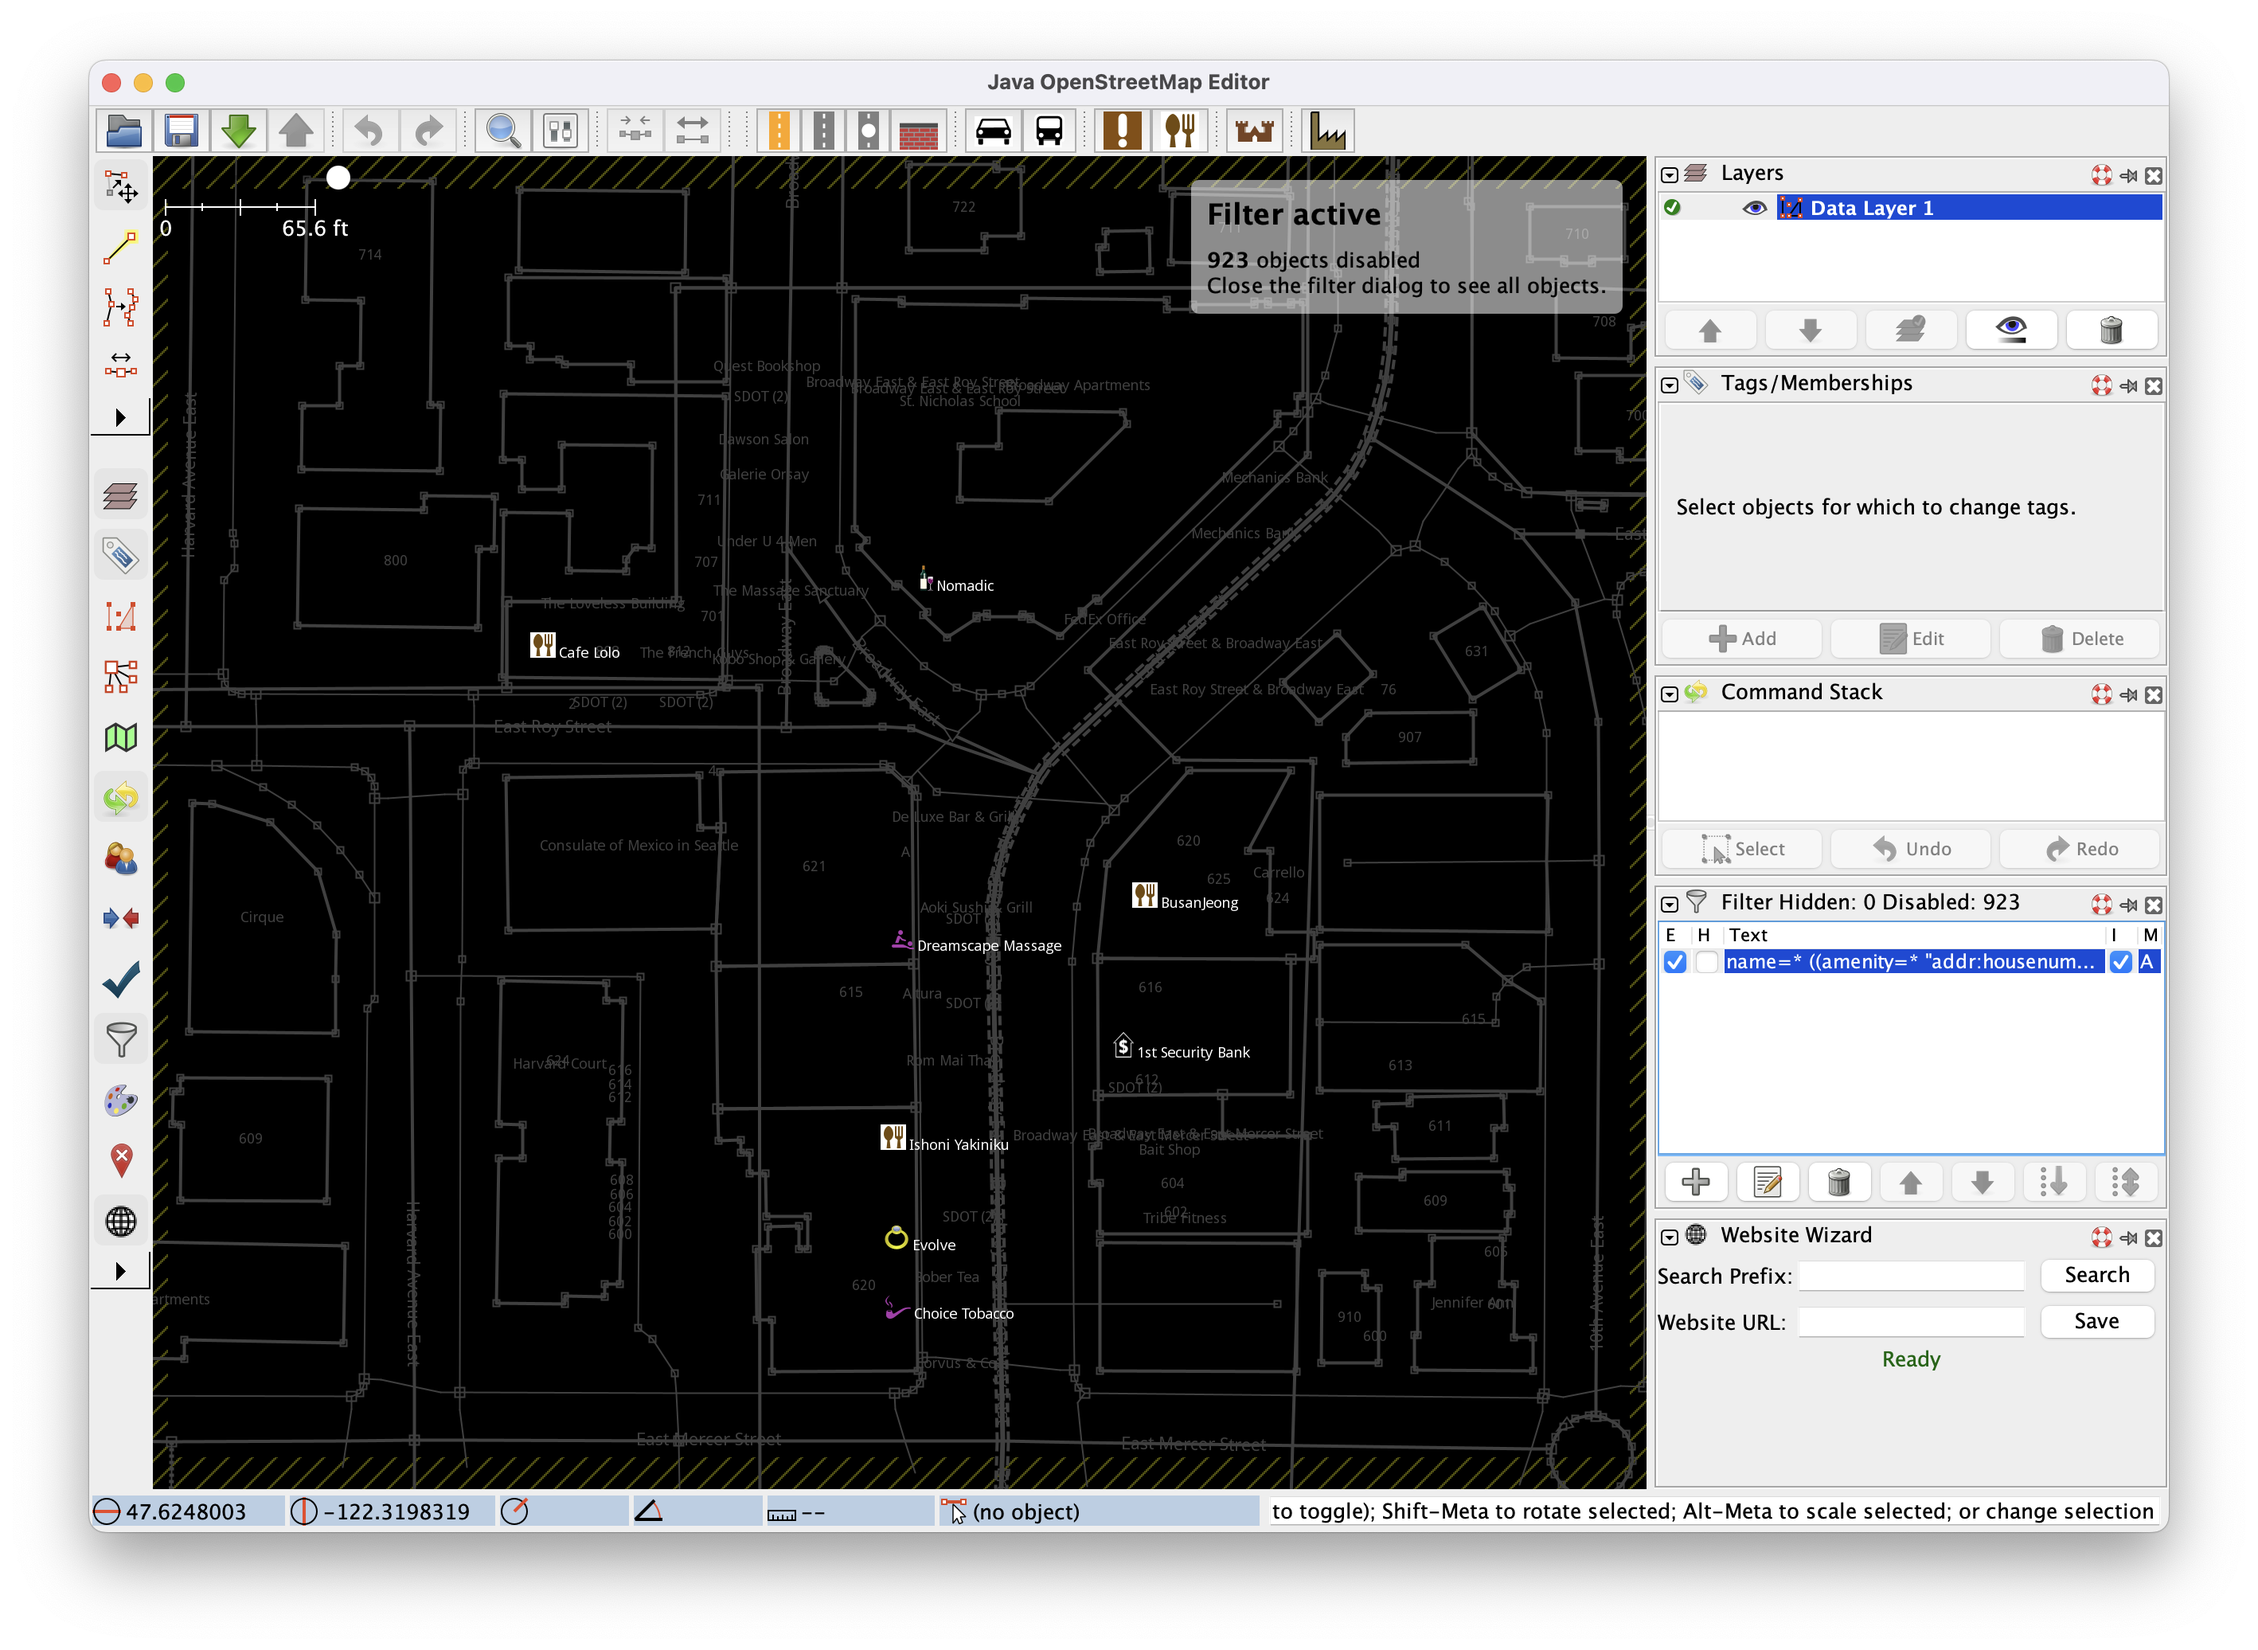
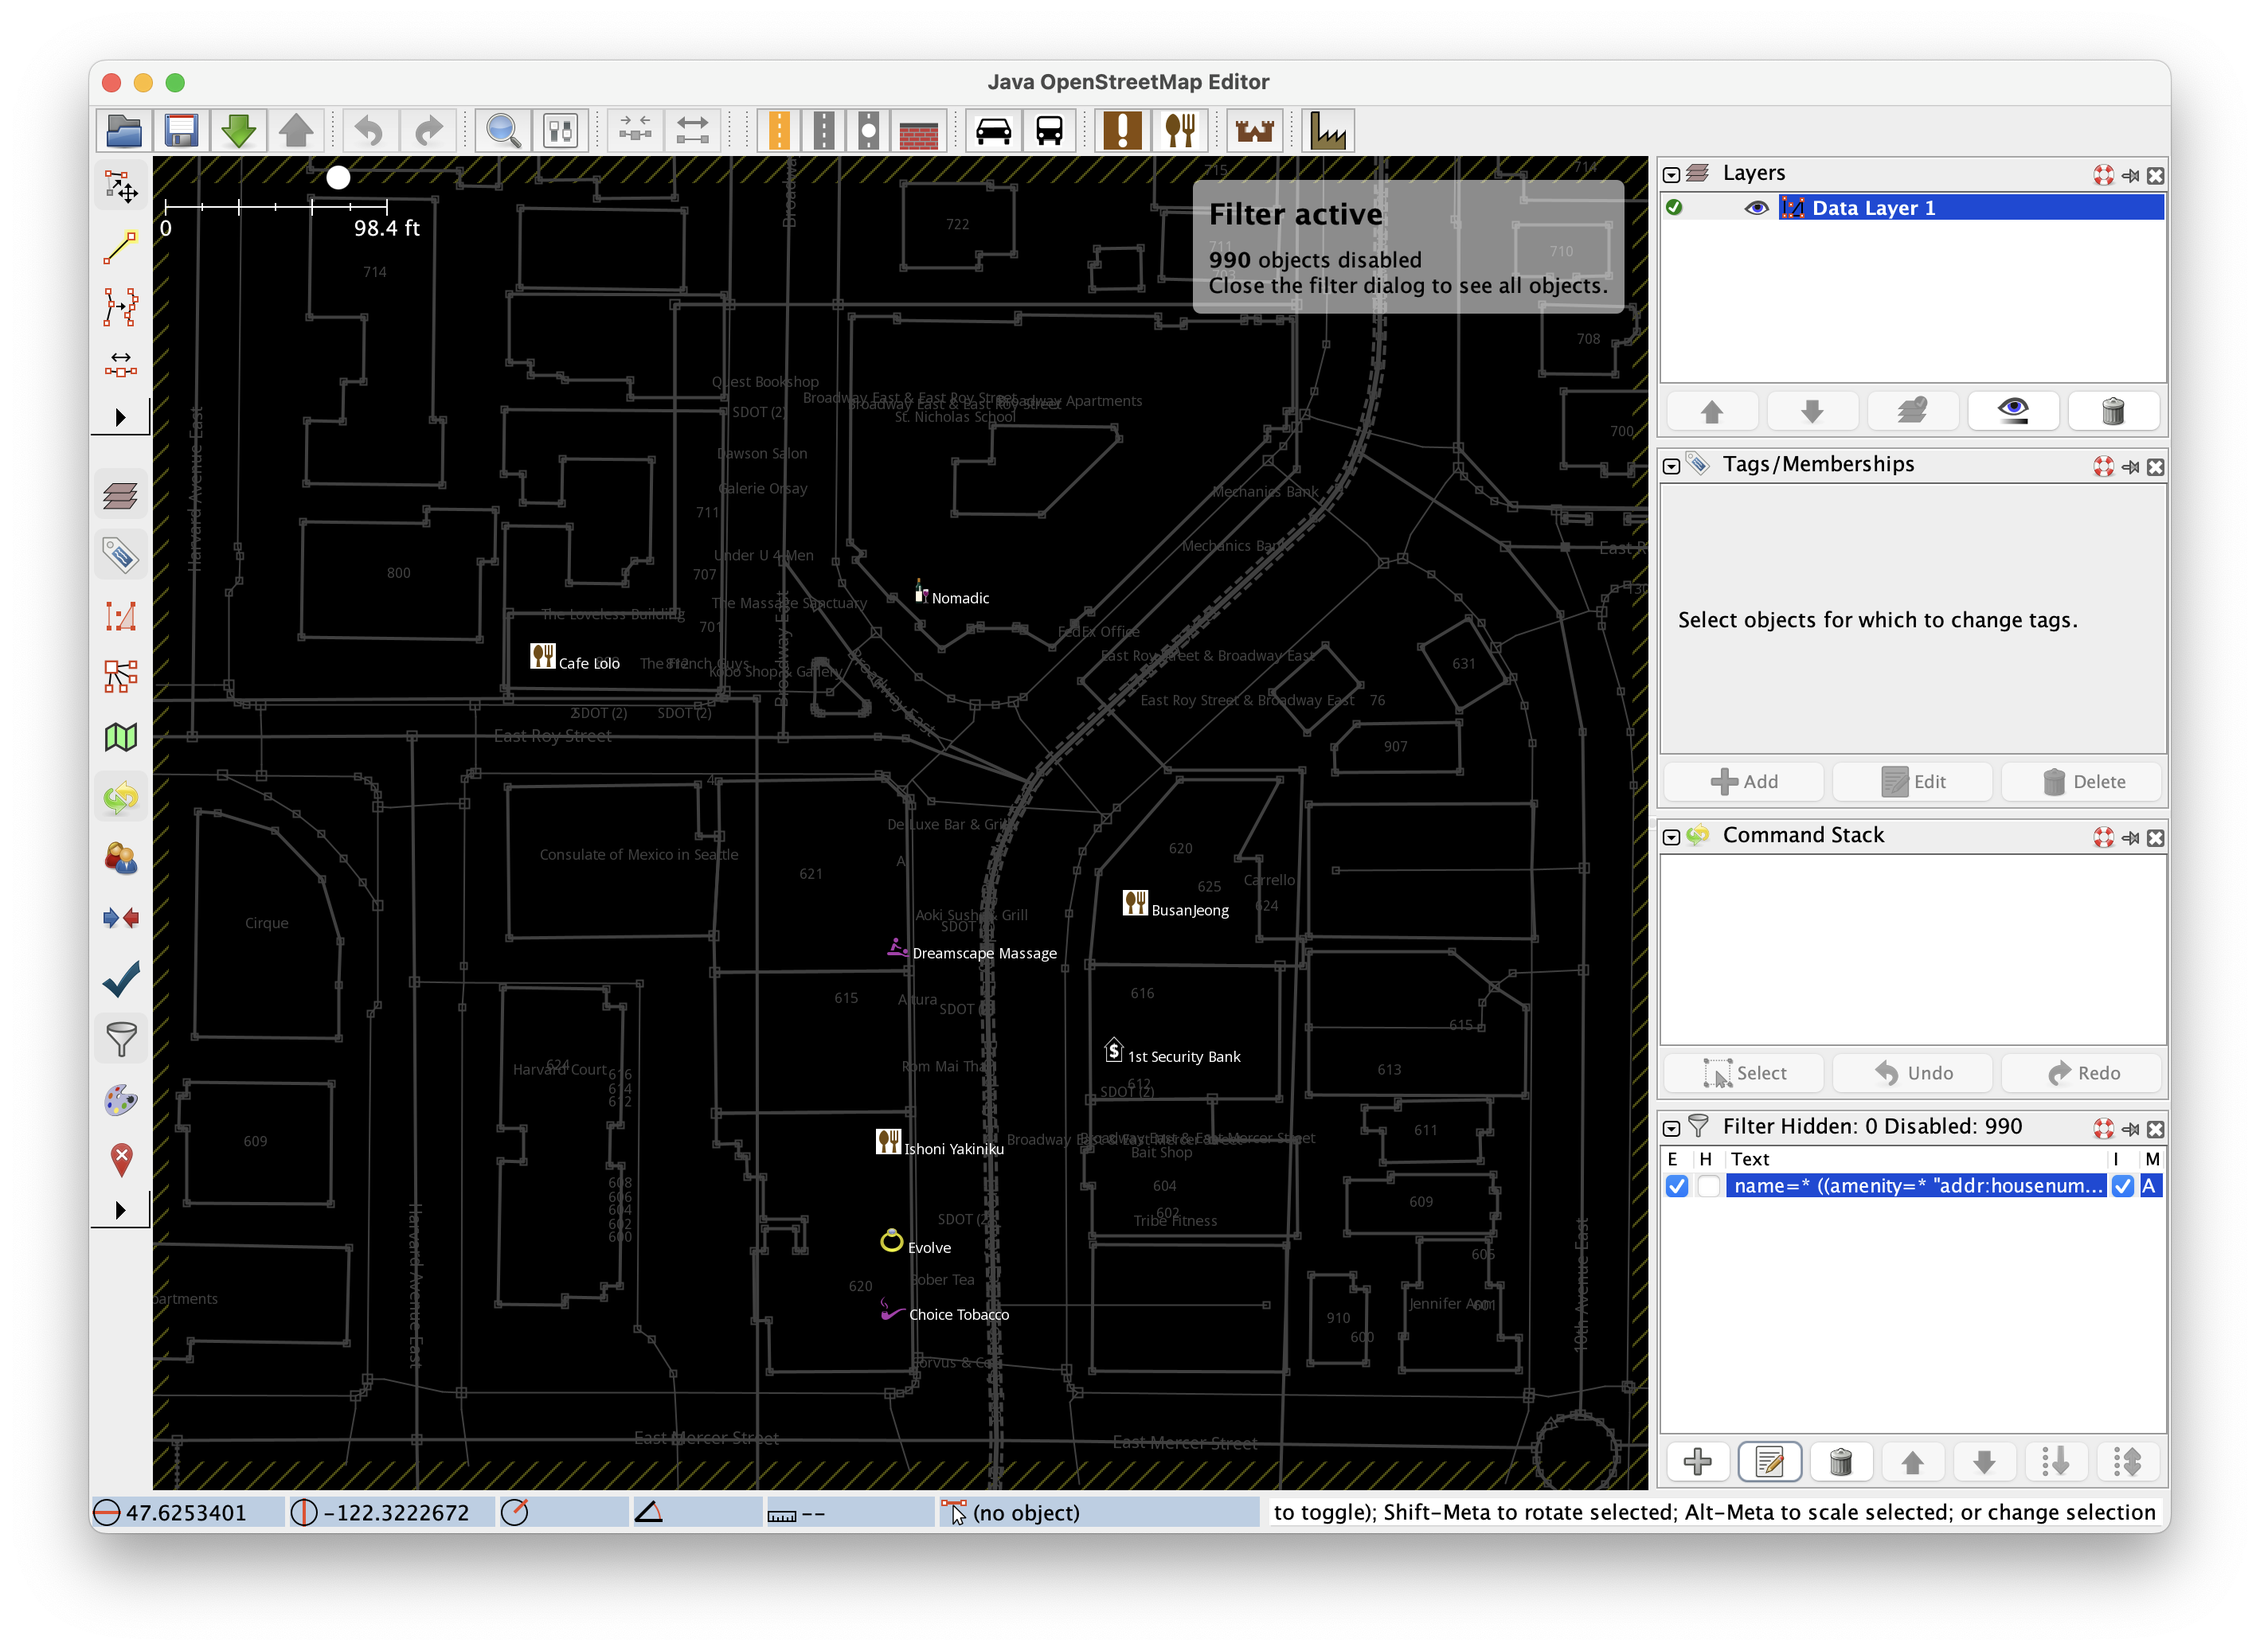
Rearrange blog sections

diff --git a/docs/index.md b/docs/index.md
@@ -22,18 +22,7 @@ Got your stopwatch out? Ready, set, go!
 
 [JOSM](https://josm.openstreetmap.de), the Java OSM editor app, is a powerful tool for querying and editing OSM data. While simpler in-browser editors exist, JOSM offers [plugins](https://josm.openstreetmap.de/wiki/Plugins) that make your edit as quick and easy as possible.
 
-## 3. Set Up the Website Wizard Plugin
-
-[![The Plugins panel in JOSM's Preferences panel](assets/images/blog-post/plugin-preferences.png)](assets/images/blog-post/plugin-preferences.png)
-
-1. Press `F12` (or `⌘+,` on Mac) to open JOSM's [Preferences](https://josm.openstreetmap.de/wiki/Help/Action/Preferences) dialog
-2. Click the **🧩 puzzle piece** icon on the left side to open the [Plugins](https://josm.openstreetmap.de/wiki/Help/Preferences/Plugins) config
-3. Click **⬇ Download list**
-4. Scroll down the list of plugins until you see [**🌐 WebsiteWizard**](https://github.com/High5Apps/josm-plugin-website-wizard)
-5. Check its checkbox
-6. Click **OK** to install it
-
-## 4. Download OSM Data
+## 3. Download OSM Data
 
 [![JOSM's Download panel with an area of interest selected](assets/images/blog-post/download-panel.png)](assets/images/blog-post/download-panel.png)
 
@@ -43,7 +32,7 @@ Got your stopwatch out? Ready, set, go!
 4. Click and drag to create a box around your AOI
 5. Click **⬇ Download**. If this fails, your AOI was probably too large. Choose a smaller AOI and try again.
 
-## 5. Filter Irrelevant OSM Data
+## 4. Filter Irrelevant OSM Data
 
 [![Unfiltered OpenStreetMap data for an area of interest](assets/images/blog-post/unfiltered-aoi.png)](assets/images/blog-post/unfiltered-aoi.png)
 
@@ -60,11 +49,22 @@ Now we'll filter the OSM data to only show shops and amenities that don't have a
 4. Click **Submit filter**
 5. Check **E**, uncheck **H**, and check **I** in the Filter panel. You should now only see the relevant places in your AOI.
 
+## 5. Set Up the Website Wizard Plugin
+
+[![The Plugins panel in JOSM's Preferences panel](assets/images/blog-post/plugin-preferences.png)](assets/images/blog-post/plugin-preferences.png)
+
+1. Press `F12` (or `⌘+,` on Mac) to open JOSM's [Preferences](https://josm.openstreetmap.de/wiki/Help/Action/Preferences) dialog
+2. Click the **🧩 puzzle piece** icon on the left side to open the [Plugins](https://josm.openstreetmap.de/wiki/Help/Preferences/Plugins) config
+3. Click **⬇ Download list**
+4. Scroll down the list of plugins until you see [**🌐 WebsiteWizard**](https://github.com/High5Apps/josm-plugin-website-wizard)
+5. Check its checkbox
+6. Click **OK** to install it
+
 ## 6. Search for an Official Website
 
 [![Website Wizard demo search in the JOSM editor](assets/images/blog-post/website-wizard-search.png)](assets/images/blog-post/website-wizard-search.png)
 
-1. Find the **🌐 Website Wizard** panel on the bottom right side of the screen
+1. Click the 🌐 icon on the left side of the screen to show the **🌐 Website Wizard** panel on the right side of the screen
 2. Type your AOI's city and/or neighborhood into Website Wizard's **Search Prefix** text field
 3. Click a shop or amenity in your AOI
 4. Click **Search** to open [DuckDuckGo](https://duckduckgo.com/) in your default browser with the query autofilled as the Search Prefix + the place's name
